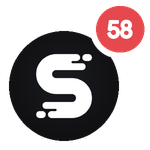
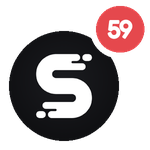
docs: refresh README contributors

Changed region(s): [[0.6933, 0.1333, 0.9067, 0.2667]]

diff --git a/README.md b/README.md
@@ -154,7 +154,7 @@ Thank you to everyone who contributes to Rafeeq! Listed by commit contributions,
 
 <!-- CONTRIBUTORS:START -->
 <p>
-  <a href="https://github.com/teamsazen"><picture><source media="(prefers-color-scheme: dark)" srcset=".github/readme/contributors/98111211-dark.png"><img src=".github/readme/contributors/98111211-light.png" alt="teamsazen: 58 commits" title="teamsazen: 58 commits" width="75" height="75"></picture></a>
+  <a href="https://github.com/teamsazen"><picture><source media="(prefers-color-scheme: dark)" srcset=".github/readme/contributors/98111211-dark.png"><img src=".github/readme/contributors/98111211-light.png" alt="teamsazen: 59 commits" title="teamsazen: 59 commits" width="75" height="75"></picture></a>
   <a href="https://github.com/abdushakoor12"><picture><source media="(prefers-color-scheme: dark)" srcset=".github/readme/contributors/60779242-dark.png"><img src=".github/readme/contributors/60779242-light.png" alt="abdushakoor12: 2 commits" title="abdushakoor12: 2 commits" width="74" height="75"></picture></a>
 </p>
 <!-- CONTRIBUTORS:END -->
